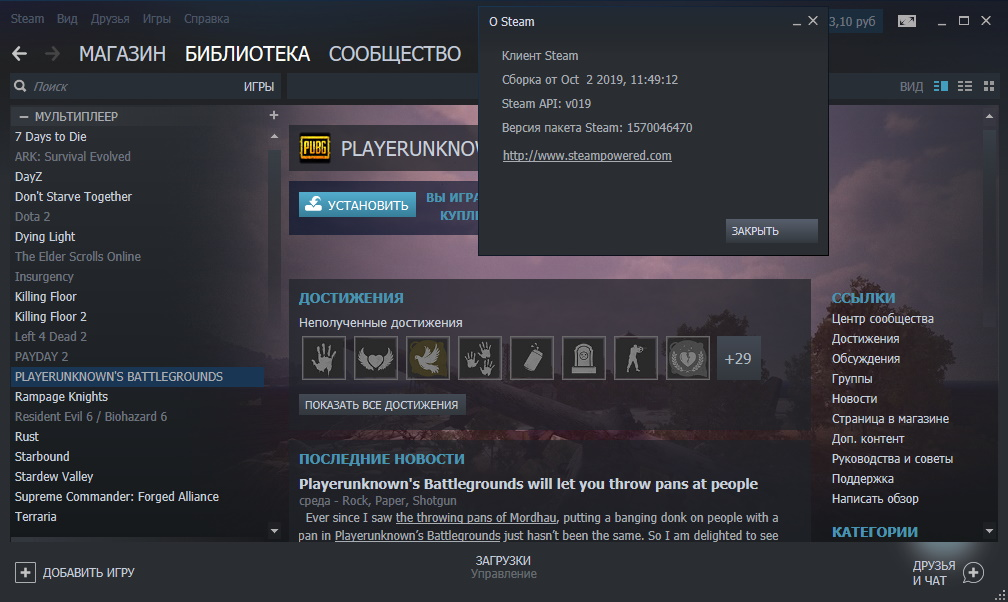
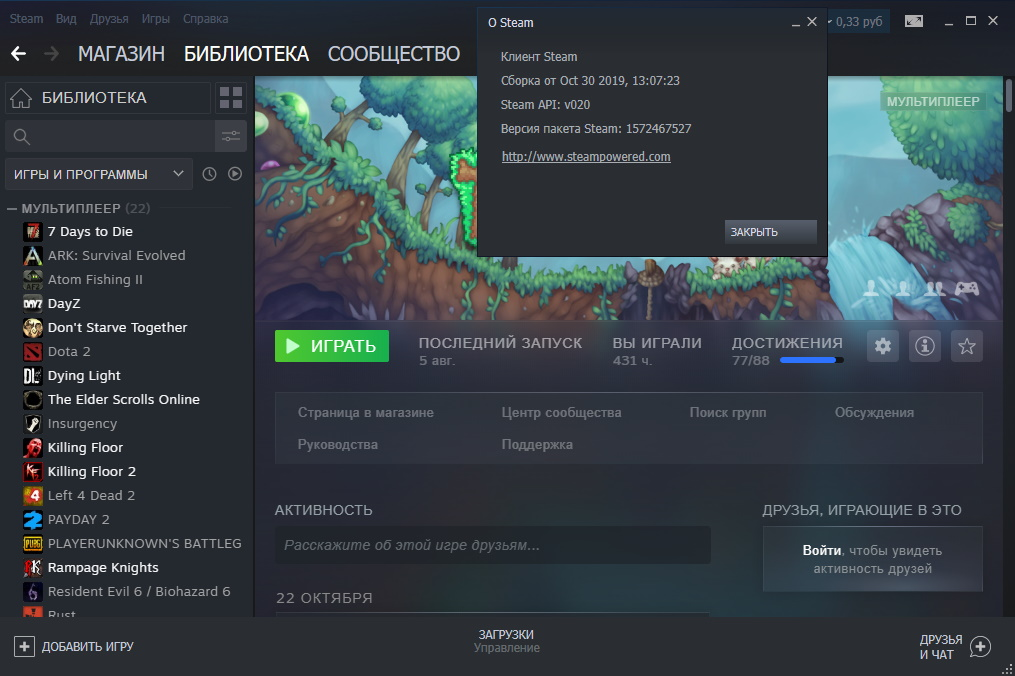
1.1
Update

diff --git a/SteamThemeFix/resource/webkit.css b/SteamThemeFix/resource/webkit.css
@@ -2,66 +2,39 @@
 	letter-spacing: 0.4px;
 }
 
-::-webkit-scrollbar,
-::-webkit-scrollbar-corner {
-	width: 15px;
-	height: 15px;
-	background: #171717;
-}
-::-webkit-scrollbar-button,
-::-webkit-scrollbar-track,
-::-webkit-scrollbar-thumb {
-	background: #575552 center no-repeat;
-	border: 1px solid #171717;
-}
-
-::-webkit-scrollbar-track:horizontal,
-::-webkit-scrollbar-thumb:horizontal {
-	border-left: 0;
-	border-rigtht: 0;
-}
-
-::-webkit-scrollbar-track:vertical,
-::-webkit-scrollbar-thumb:vertical {
-	border-top: 0;
-	border-bottom: 0;
+::-webkit-scrollbar {
+    height: 12px;
+    width: 12px;
+    background: transparent;
+    z-index: 12;
+    overflow: visible;
 }
 
 ::-webkit-scrollbar-thumb {
-	background-color: #5d5b58;
+    width: 4px;
+    min-height: 32px;
+    border: 3px solid transparent;
+    border-radius: 10px;
+    z-index: 12;
+    background-image: none;
+    background-color: rgba( 67, 73, 83, 1 );
+    background-clip: padding-box;
+    transition: background-color .32s ease-in-out;
+    // margin: 4px;
+    // min-width: 32px;
 }
 
-::-webkit-scrollbar-track:vertical {
-	background: #171717 -webkit-gradient(linear, center top, center 89, from(rgb(59, 59, 59)), to(rgb(23, 23, 23)));
-}
-
-::-webkit-scrollbar-track:horizontal {
-	background: #171717 -webkit-gradient(linear, left center, 89 center, from(rgb(59, 59, 59)), to(rgb(23, 23, 23)));
-}
-
-::-webkit-scrollbar-button:hover,
 ::-webkit-scrollbar-thumb:hover {
-	background-color: #676461;
+    background-color: rgb(96, 103, 116);
+    background-clip: padding-box;
 }
 
-::-webkit-scrollbar-button:vertical:decrement {
-	height: 23px;
-	background-position: center 7px;
[1 lines of base64/hex data omitted]
+::-webkit-scrollbar-corner {
+    background: #202020;
+    background-color: rgb(67, 73, 83);
 }
 
-::-webkit-scrollbar-button:vertical:increment {
-	height: 23px;
-	background-position: center 9px;
[1 lines of base64/hex data omitted]
-}
-
-::-webkit-scrollbar-button:horizontal:decrement {
-	width: 23px;
[1 lines of base64/hex data omitted]
-}
-
-::-webkit-scrollbar-button:horizontal:increment {
-	width: 23px;
[1 lines of base64/hex data omitted]
+::-webkit-scrollbar-track,
+::-webkit-scrollbar-button {
+    display: none;
 }

diff --git a/README.md b/README.md
@@ -1,8 +1,8 @@
 # SteamThemeFix (Русский язык)
 
 ### Информация:
-Версия темы **1.0** от **20.10.2019**. ( [СКАЧАТЬ](https://github.com/scerka/steam-theme-fix/archive/1.0.zip "Ссылка на скачивание") )  
-Для Steam от (Сборка от Окт 2 2019, 11:49:12 | Steam API: v019 | Версия пакета: 1570046470) и выше.
+Версия темы **1.1** от **31.10.2019**. ( [СКАЧАТЬ](https://github.com/scerka/steam-theme-fix/archive/1.1.zip "Ссылка на скачивание") )  
+Для Steam от (Сборка от Окт 30 2019, 13:07:23 | Steam API: v020 | Версия пакета: 1572467527) и выше.
 
 ### Описание:
 Стандартная тема Steam с мелкими исправлениями.
@@ -10,9 +10,8 @@
 ### Изменения:
 1. Шрифт изменён на Roboto (Интерфейс + Браузер)
 2. Убрано свечение текста со всех элементов верхнего меню
-3. У всех ScrollBar убран Scrollbar Thumb (Интерфейс + Браузер)
-4. В верхнее меню в элемент "Steam" добавлен пункт "Перезапустить"
-5. Для всего текста в браузере добавлено свойство letter-spacing
+3. В верхнее меню в элемент "Steam" добавлен пункт "Перезапустить"
+4. Для всего текста в браузере добавлено свойство letter-spacing
 
 ### Установка:
 >Закинуть папку **SteamThemeFix** по пути **путь_до_папки_steam/skins/**  
@@ -25,8 +24,8 @@
 # SteamThemeFix (English language)
 
 ### Information:
-Theme version **1.0** dated **10/20/2019**. ( [DOWNLOAD](https://github.com/scerka/steam-theme-fix/archive/1.0.zip "Download link") )  
-For Steam from (Build from Oct 2 2019, 11:49:12 | Steam API: v019 | Package version: 1570046470) and higher.
+Theme version **1.1** dated **31/20/2019**. ( [DOWNLOAD](https://github.com/scerka/steam-theme-fix/archive/1.1.zip "Download link") )  
+For Steam from (Build from Oct 30 2019, 13:07:23 | Steam API: v020 | Package version: 1572467527) and higher.
 
 ### Description:
 Standard Steam theme with minor fixes.
@@ -34,9 +33,8 @@ Standard Steam theme with minor fixes.
 ### Changes:
 1. Font changed to Roboto (Interface + Browser)
 2. Removed text glow from all elements of the top menu
-3. All ScrollBar removed Scrollbar Thumb (Interface + Browser)
-4. In the upper menu in the item "Steam" added the item "Restart"
-5. Added the letter-spacing property for all text in the browser
+3. In the upper menu in the item "Steam" added the item "Restart"
+4. Added the letter-spacing property for all text in the browser
 
 ### Installation:
 >Drop the **SteamThemeFix** folder along the path **path_to_folders_steam/skins/**  
